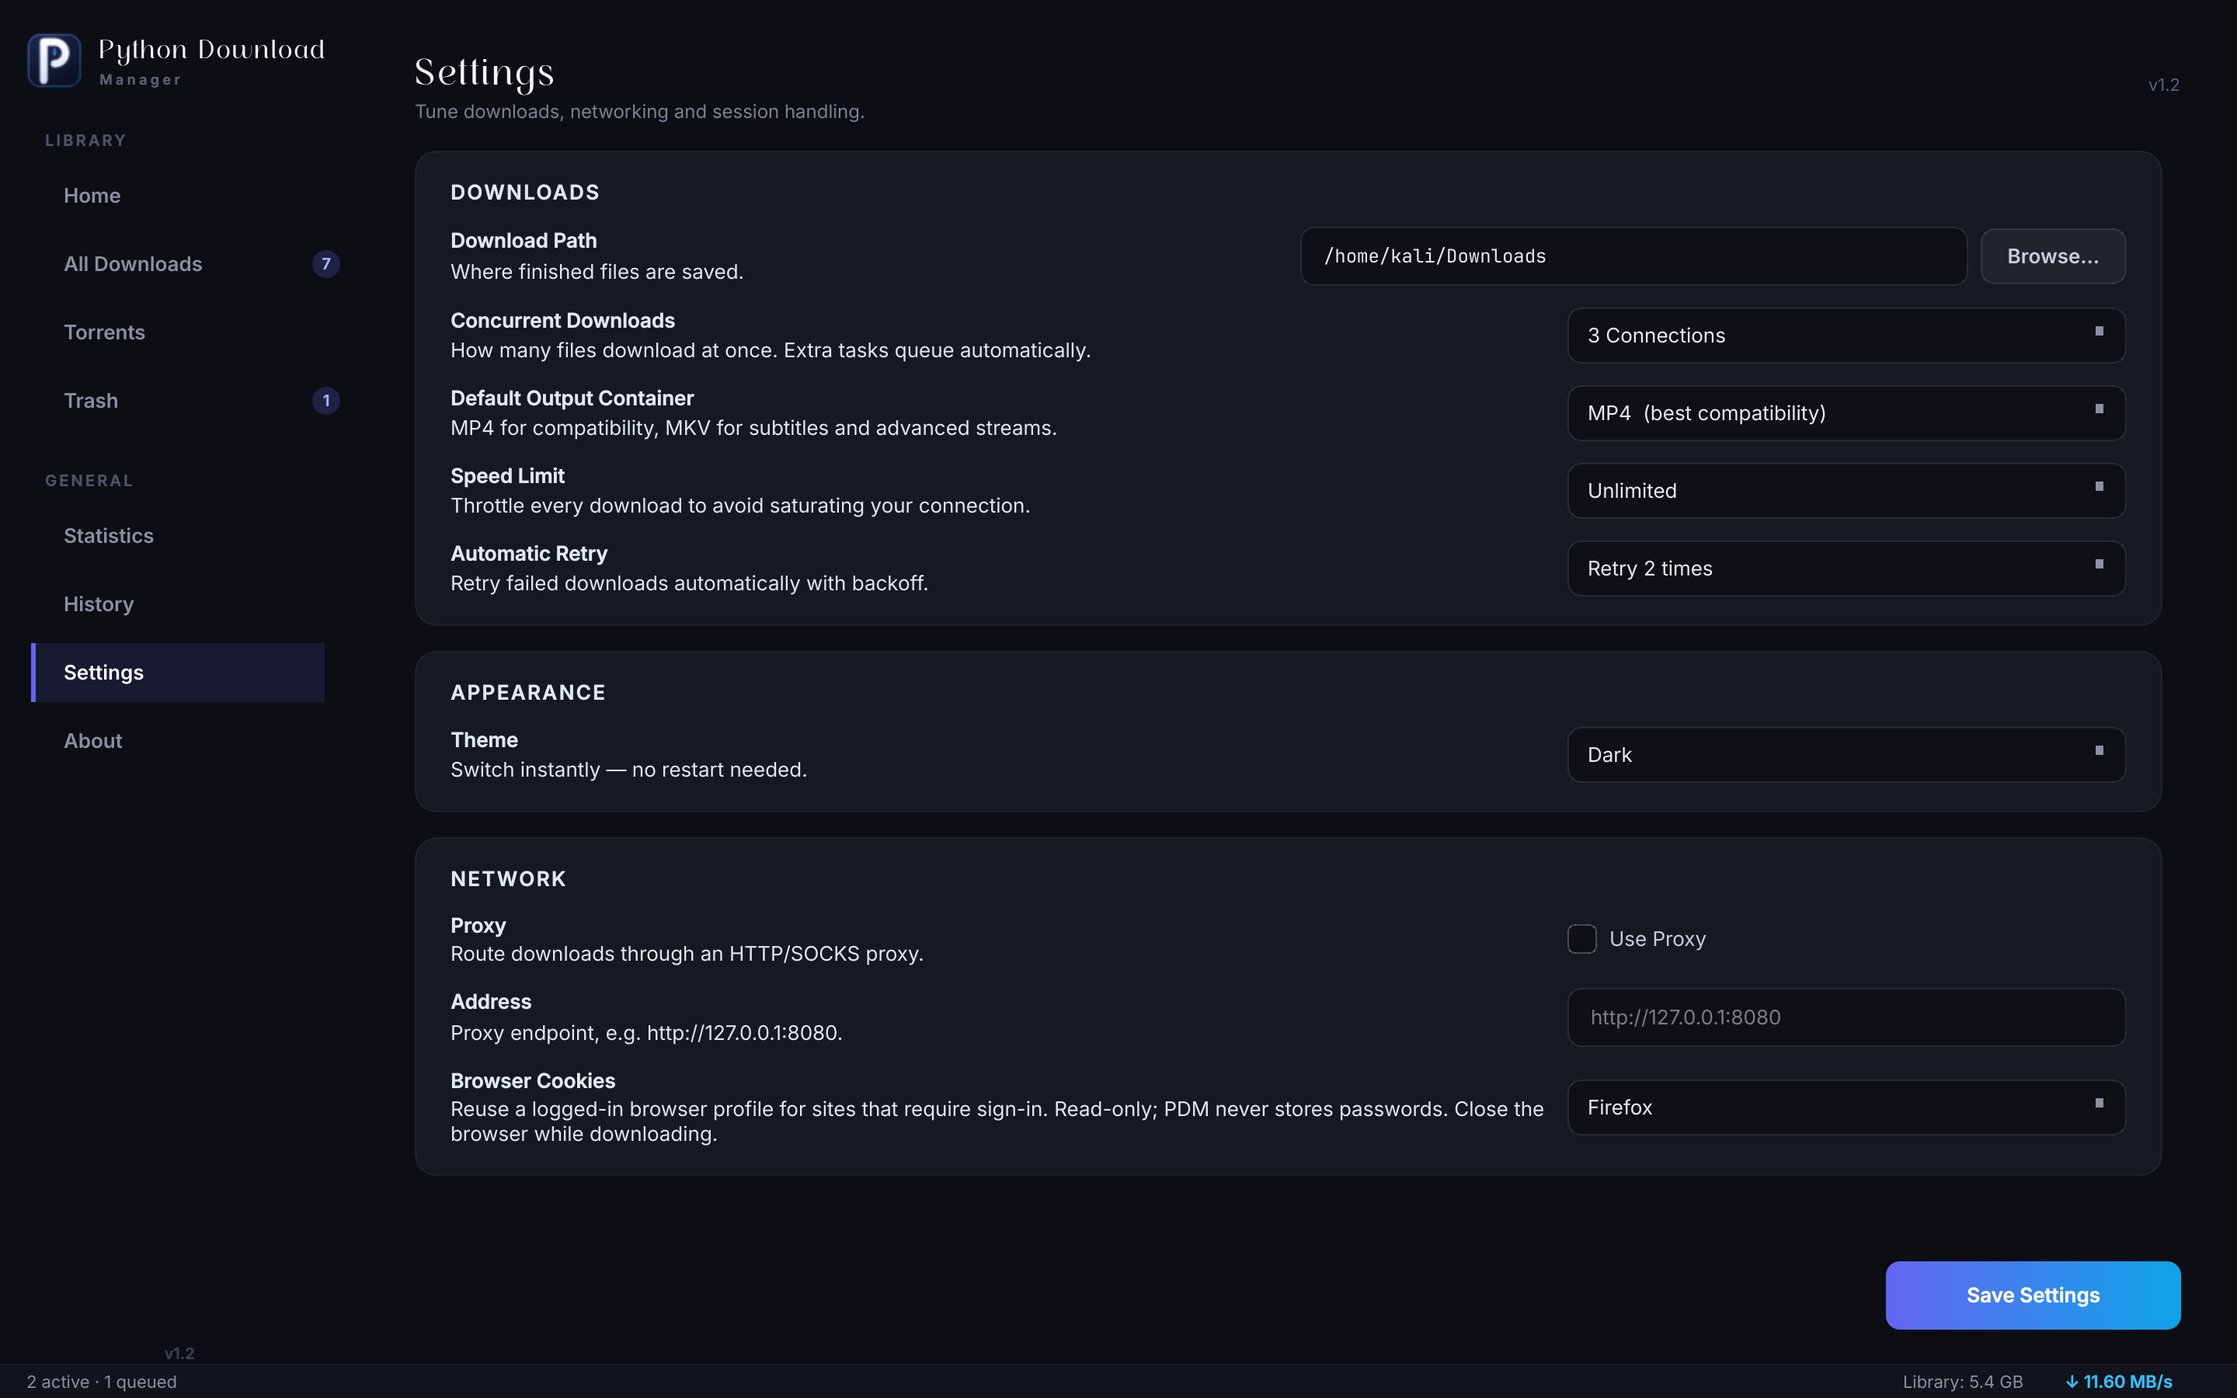
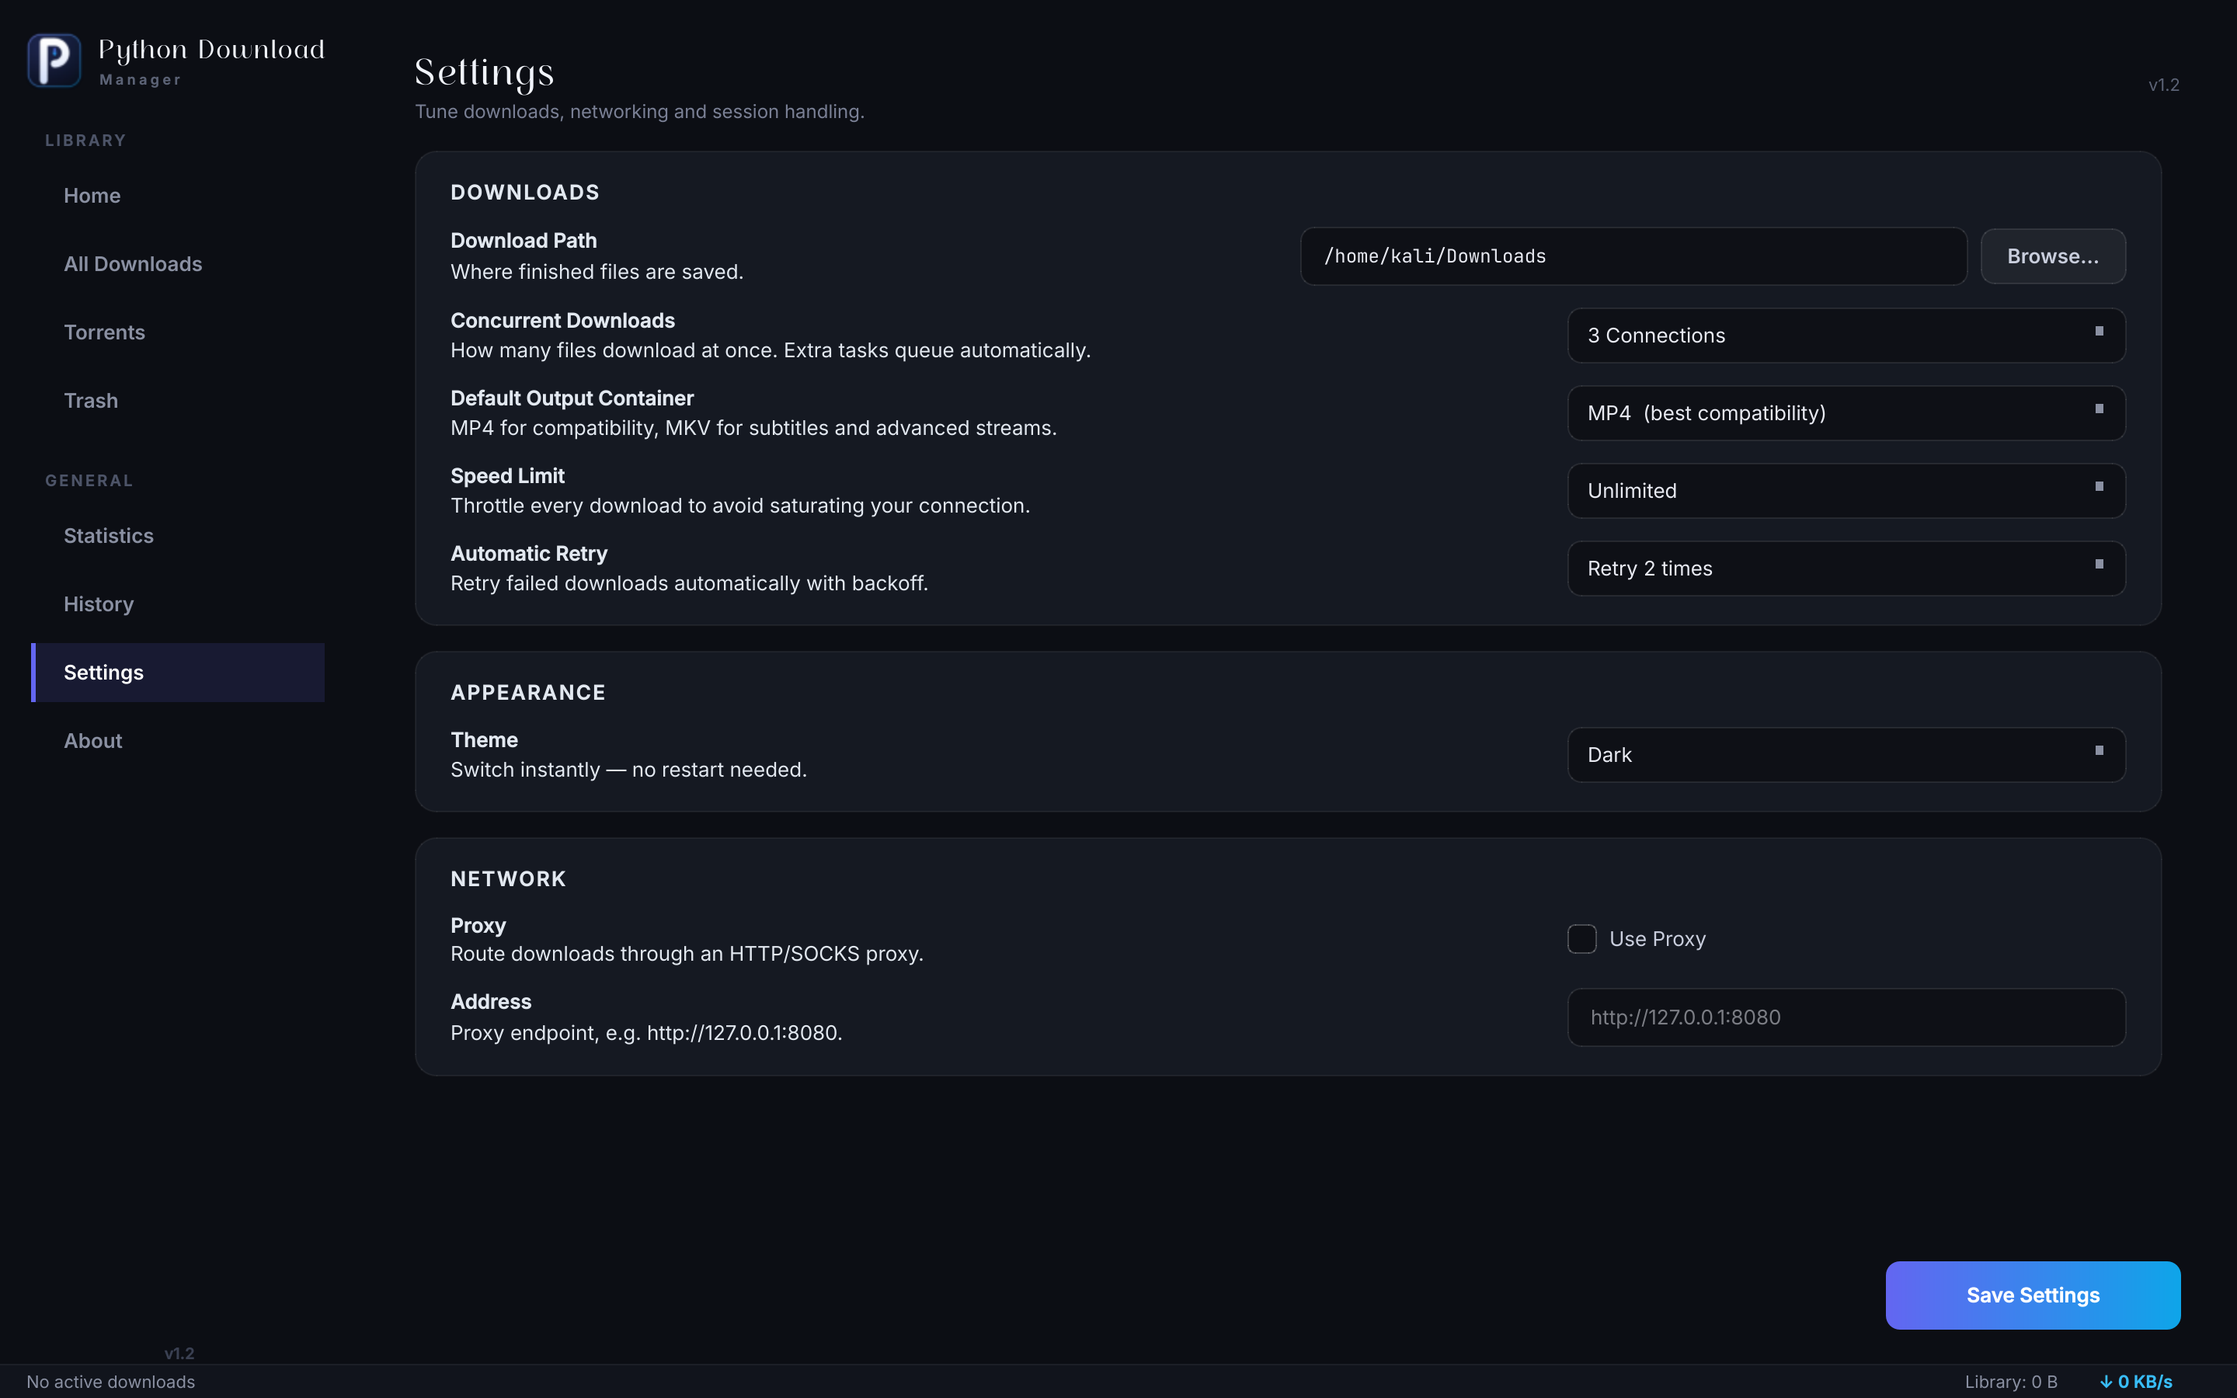
update commit

diff --git a/ui/widgets/settings_view.py b/ui/widgets/settings_view.py
@@ -54,10 +54,6 @@ class PDMSettingsView(QWidget):
             proxy_addr = self.db.get_setting('proxy_address', '')
             self.use_proxy.setChecked(proxy_enabled)
             self.proxy_addr.setText(proxy_addr)
-            cookie_browser = (self.db.get_setting('cookie_browser', '') or '').strip().lower()
-            c_idx = self.cookie_combo.findData(cookie_browser)
-            if c_idx >= 0:
-                self.cookie_combo.setCurrentIndex(c_idx)
         except Exception:
             pass
 
@@ -128,10 +124,7 @@ class PDMSettingsView(QWidget):
         self.use_proxy = QCheckBox('Use Proxy')
         self.proxy_addr = QLineEdit()
         self.proxy_addr.setPlaceholderText('http://127.0.0.1:8080')
-        self.cookie_combo = QComboBox()
-        for lbl, val in [('Disabled', ''), ('Firefox', 'firefox'), ('Chrome', 'chrome'), ('Chromium', 'chromium'), ('Brave', 'brave'), ('Edge', 'edge'), ('Opera', 'opera'), ('Vivaldi', 'vivaldi')]:
-            self.cookie_combo.addItem(lbl, val)
-        container_layout.addWidget(self._create_section('Network', [('Proxy', self.use_proxy, 'Route downloads through an HTTP/SOCKS proxy.'), ('Address', self.proxy_addr, 'Proxy endpoint, e.g. http://127.0.0.1:8080.'), ('Browser Cookies', self.cookie_combo, 'Reuse a logged-in browser profile for sites that require sign-in. Read-only; PDM never stores passwords. Close the browser while downloading.')] ))
+        container_layout.addWidget(self._create_section('Network', [('Proxy', self.use_proxy, 'Route downloads through an HTTP/SOCKS proxy.'), ('Address', self.proxy_addr, 'Proxy endpoint, e.g. http://127.0.0.1:8080.')] ))
         container_layout.addStretch()
         scroll.setWidget(container)
         outer.addWidget(scroll, stretch=1)
@@ -179,7 +172,7 @@ class PDMSettingsView(QWidget):
     def _on_save(self):
         self.save_btn.setEnabled(False)
         self.save_btn.setText('Saving…')
-        data = {'path': self.download_path.text(), 'threads': self.concurrent_limit.currentText(), 'proxy': self.use_proxy.isChecked(), 'proxy_addr': self.proxy_addr.text(), 'theme': self.theme_combo.currentData(), 'container': self.container_combo.currentData(), 'speed_limit': self.speed_limit.currentData(), 'auto_retry': self.retry_combo.currentData(), 'cookie_browser': self.cookie_combo.currentData() or ''}
+        data = {'path': self.download_path.text(), 'threads': self.concurrent_limit.currentText(), 'proxy': self.use_proxy.isChecked(), 'proxy_addr': self.proxy_addr.text(), 'theme': self.theme_combo.currentData(), 'container': self.container_combo.currentData(), 'speed_limit': self.speed_limit.currentData(), 'auto_retry': self.retry_combo.currentData(), 'cookie_browser': ''}
         self.save_clicked.emit(data)
         QTimer.singleShot(500, self._show_confirmation)
 

diff --git a/ui/dialogs.py b/ui/dialogs.py
@@ -117,12 +117,7 @@ class NewDownloadDialog(QDialog):
         signin_lbl = QLabel('SITE SIGN-IN')
         signin_lbl.setObjectName('section-title')
         config_v.addWidget(signin_lbl)
-        self.cookie_combo = QComboBox()
-        for lbl, val in [('Not required', ''), ('Firefox', 'firefox'), ('Chrome', 'chrome'), ('Chromium', 'chromium'), ('Brave', 'brave'), ('Edge', 'edge'), ('Opera', 'opera'), ('Vivaldi', 'vivaldi')]:
-            self.cookie_combo.addItem(lbl, val)
-        self.cookie_combo.setToolTip('Site needs login? Pick the browser where you are logged in, then press Scan Media again. Close that browser first.')
-        config_v.addWidget(self.cookie_combo)
-        hint = QLabel('Login-required site? Choose your browser and re-scan. Close the browser while downloading.')
+        hint = QLabel('Login-required site? Press Scan Media - if sign-in is needed, PDM opens the site right here so you can log in once. The session is remembered.')
         hint.setObjectName('section-sub')
         hint.setWordWrap(True)
         config_v.addWidget(hint)
@@ -145,10 +140,7 @@ class NewDownloadDialog(QDialog):
         footer.addWidget(self.ok_btn)
         outer.addLayout(footer)
         try:
-            saved = PDMDatabase().get_setting('cookie_browser', '') or ''
-            c_idx = self.cookie_combo.findData(saved.lower())
-            if c_idx >= 0:
-                self.cookie_combo.setCurrentIndex(c_idx)
+            PDMDatabase().get_setting('cookie_browser', '')
         except Exception:
             pass
 
@@ -157,10 +149,6 @@ class NewDownloadDialog(QDialog):
         if not url:
             QMessageBox.information(self, 'URL Required', 'Paste a media URL to scan first.')
             return
-        try:
-            PDMDatabase().set_setting('cookie_browser', self.cookie_combo.currentData() or '')
-        except Exception:
-            pass
         low = url.lower()
         if low.startswith('magnet:') or low.endswith('.torrent'):
             if low.startswith('magnet:') and 'dn=' in low:

diff --git a/scripts/selftest.py b/scripts/selftest.py
@@ -223,18 +223,18 @@ def _():
     assert hasattr(w, 'clear_all_btn') and hasattr(w, 'empty_trash_btn')
 
 
-@check('ui: settings roundtrip incl cookies + browse btn')
+@check('ui: settings roundtrip incl browse btn')
 def _():
     from PySide6.QtWidgets import QApplication, QPushButton
     from ui.widgets.settings_view import PDMSettingsView
     sv = PDMSettingsView()
     assert any('Browse' in b.text() for b in sv.findChildren(QPushButton))
-    assert sv.cookie_combo.count() >= 7
+    assert not hasattr(sv, 'cookie_combo'), 'external-browser cookie dropdown should be gone (embedded login is the path)'
     data_probe = sv.download_path.text()
     assert data_probe and not data_probe.startswith('~')
 
 
-@check('ui: dialog magnet routing + signin combo')
+@check('ui: dialog magnet routing + embedded sign-in hint')
 def _():
     from PySide6.QtWidgets import QApplication
     from ui.dialogs import NewDownloadDialog
@@ -243,7 +243,7 @@ def _():
     d._start_scan()
     sel = d.get_selected_files()['files'][0]
     assert sel.get('is_torrent') and 'Mutiny' in sel['name']
-    assert d.cookie_combo.count() >= 7
+    assert not hasattr(d, 'cookie_combo'), 'external-browser cookie dropdown should be gone'
 
 
 @check('themes: dark + light apply cleanly')

diff --git a/README.md b/README.md
@@ -11,9 +11,8 @@ PDM picks the right engine automatically and gets out of your way.
 [![Qt](https://img.shields.io/badge/Qt-6%20%2F%20PySide6-41CD52?style=flat-square&logo=qt&logoColor=white)](https://doc.qt.io/qtforpython/)
 [![Platform](https://img.shields.io/badge/Platform-Linux%20%7C%20Windows-4c5670?style=flat-square)](#-installation)
 [![License](https://img.shields.io/badge/License-MIT-3b82f6?style=flat-square)](LICENSE)
-[![Tests](https://img.shields.io/badge/Self--test-20%20checks-success?style=flat-square)](#-development--testing)
 
-[Features](#-features) · [Installation](#-installation) · [Architecture](#-architecture) · [Contributing](#-contributing) · [Legal](#-legal-notice)
+[Features](#-features) · [Installation](#-installation) · [Usage](#-usage) · [Contributing](#-contributing) · [Legal](#-legal-notice)
 
 </div>
 
@@ -24,14 +23,15 @@ PDM picks the right engine automatically and gets out of your way.
 Most download tools do one thing. PDM routes **every** link you throw at it through the engine
 that handles it best — automatically:
 
-| You paste… | PDM uses |
+| You paste… | What happens |
 |---|---|
-| YouTube / social video links | **yt-dlp** with format picker, cookies and smart naming |
-| `magnet:` or `.torrent` | **libtorrent** engine with live piece progress |
-| HLS / DASH stream pages (`.m3u8` / `.mpd`) | **N_m3u8DL-RE** (auto-installed) with native HLS fallback |
+| Video / social media links | Scanned, formats listed, best quality picked — with a visual format picker |
+| `magnet:` or `.torrent` | Multi-peer torrent engine with live piece progress |
+| Stream pages (`.m3u8` / `.mpd`) | Stream harvesting + a dedicated segmented-stream downloader |
 | Plain file URLs | Multi-segment accelerator with resume + integrity checks |
+| Sign-in-only sites | The site opens inside PDM — log in once, the session is remembered |
 
-No per-site configuration. No browser extensions. One queue, one library.
+No per-site configuration. One queue, one library.
 
 ## ✨ Features
 
@@ -41,15 +41,15 @@ No per-site configuration. No browser extensions. One queue, one library.
 - **Trash-soft delete** — nothing disappears until you empty it
 
 ### 🎬 Smart Media Handling
-- **yt-dlp integration** with a visual format picker (resolution × fps × codec × size)
+- **Visual format picker** — resolution × fps × codec × size, all in one table
 - **Smart naming** — resolution, codec and source baked into clean filenames
-- **Browser login reuse** — opt-in cookies from Firefox/Chrome/Chromium/Brave/Edge/Safari for members-only content you can access
 - **Audio extraction** to MP3 with one toggle
 
-### 📡 OTT / Live Streams
-- **SuperScan** page harvester finds `.m3u8` / `.mpd` / `.mp4` payloads hidden in HTML, JSON blobs and app bundles
-- **N_m3u8DL-RE** pipeline for segmented streams with referer/UA passthrough — installed automatically by the bootstrap scripts
-- **Native HLS downloader** as a dependency-free fallback (no ffmpeg required for TS capture)
+### 📡 Streams & OTT
+- **Stream harvesting** — PDM finds playable `.m3u8` / `.mpd` / `.mp4` payloads hidden in pages, JSON blobs and app bundles
+- **Dedicated segmented-stream downloader** with referer/session passthrough, installed automatically by the bootstrap scripts
+- **Built-in site login** — sign-in-required sites open inside PDM's own browser; log in once and the session is remembered for scanning and downloading
+- **Play-and-catch** — while signed in, any non-encrypted stream the site's player generates appears in a one-click list
 - Login-wall and DRM detection with clear messaging — PDM tells you *why* something can't be fetched instead of failing silently
 
 ### 🌊 BitTorrent
@@ -76,7 +76,7 @@ No per-site configuration. No browser extensions. One queue, one library.
 <td align="center" width="50%"><img src="assets/screenshots/statistics.png" alt="Statistics"/><br/><sub><b>Bandwidth statistics</b></sub></td>
 </tr>
 </table>
-<p><sub><i>More: <a href="assets/screenshots/add_url.png">scan dialog</a> · <a href="assets/screenshots/settings.png">settings (14 themes, cookies, speed limits)</a></i></sub></p>
+<p><sub><i>More: <a href="assets/screenshots/add_url.png">scan dialog</a> · <a href="assets/screenshots/settings.png">settings (14 themes, proxy, speed limits)</a></i></sub></p>
 </div>
 
 ## 🛠 Installation
@@ -90,35 +90,28 @@ cd PDM---Python-Download-Manager
 run.bat           # Windows — double-click or run in cmd
 ```
 
-The bootstrap script creates the virtualenv, installs all dependencies (including PySide6 and a
-static FFmpeg fallback), downloads the **N_m3u8DL-RE** engine for your platform and launches PDM.
-Nothing else to configure.
+The bootstrap script prepares everything automatically and launches PDM. Nothing else to configure.
 
-> `bash run.sh --live` also runs the full network self-test before launching.
-
-### Option 2 — Manual
+### Option 2 — Just run it
 
 ```bash
 git clone https://github.com/pintukumar-sutradhar/PDM---Python-Download-Manager.git
 cd PDM---Python-Download-Manager
-python3 -m venv .venv
-source .venv/bin/activate        # Windows: .venv\Scripts\activate
-pip install -r requirements.txt
 python3 pdm.py
 ```
 
-**Requirements:** Python 3.10+. Everything else installs itself on first run.
+On first launch PDM installs its own dependencies automatically (creating a local environment if
+your system Python requires one) and then starts. Subsequent launches open instantly.
 
-- FFmpeg optional (`static-ffmpeg` bundled as fallback)
-- Node.js/deno optional (improves some YouTube extractions)
-- BitTorrent uses `libtorrent`, installed automatically when a wheel exists for your Python; on very new Python versions without a wheel, everything else still works and only torrent support is disabled
+**Requirements:** Python 3.10+. Everything else installs itself on first run.
 
 ## 🚀 Usage
 
-1. **Paste anything** — a YouTube link, a magnet, a stream page URL, a direct file
+1. **Paste anything** — a video link, a magnet, a stream page URL, a direct file
 2. PDM scans it and shows exactly what it found (formats, streams, files)
-3. Pick where to save; hit download
-4. Watch progress in the library, or minimize to tray
+3. If a site needs sign-in, log in inside PDM's built-in browser — once
+4. Pick where to save; hit download
+5. Watch progress in the library, or minimize to tray
 
 <details>
 <summary><b>⌨ Keyboard shortcuts</b></summary>
@@ -131,62 +124,9 @@ python3 pdm.py
 
 </details>
 
-## 🏗 Architecture
-
-```
-pdm.py                  app entry, splash, single-instance guard
-├── ui/                 Qt widgets, views, themes, dialogs
-│   ├── main_window.py  navigation, library, torrent↔library sync
-│   └── widgets/        home dashboard, settings, statistics cards
-├── core/
-│   ├── download_engine.py   queue, worker lifecycle, signals
-│   ├── scanner.py           URL classification (yt-dlp → SuperScan fallback)
-│   ├── ott_superscan.py     page harvester for hidden stream manifests
-│   ├── nre.py               N_m3u8DL-RE process control + progress parsing
-│   ├── database.py          SQLite (WAL) schema + retry-safe writes
-│   └── jsruntime.py         JS runtime detection, cookie plumbing
-├── download/
-│   ├── worker.py            routing: NRE → native HLS → direct → engine
-│   ├── native_engine.py     dependency-free HLS downloader
-│   ├── torrent_engine.py    libtorrent wrapper
-│   └── segment.py           multi-segment byte-range downloader
-└── scripts/selftest.py      20-check verification suite (offline + live)
-```
-
-## 🧪 Development & Testing
-
-```bash
-python3 scripts/selftest.py          # 17 offline checks
-python3 scripts/selftest.py --live   # + 3 live network tests (YouTube, HLS, full download)
-
-PDM_VERBOSE=1 python3 pdm.py         # verbose console during development
-```
-
-Every module is covered by the self-test: database lifecycle, scanner ordering guarantees,
-SuperScan harvesting, NRE command building, worker routing, UI boot, themes and more.
-
-## 🗺 Roadmap
-
-- [ ] Per-site OTT tuning as data-driven rules
-- [ ] Scheduler (start/stop windows, off-peak throttling)
-- [ ] Browser extension for one-click hand-off
-- [ ] Portable Windows build
-
 ## 🤝 Contributing
 
-PRs welcome. Keep the self-test green:
-
-```bash
-python3 scripts/selftest.py
-```
-
-Please read [CONTRIBUTING.md](CONTRIBUTING.md) and the [Code of Conduct](CONTRIBUTING.md) first.
-
-## 🔒 Security
-
-Downloaded content is stored unencrypted in your chosen folder. Cookie reuse is **opt-in**,
-per-download, and never leaves your machine. Report vulnerabilities via
-[GitHub Issues](https://github.com/pintukumar-sutradhar/PDM---Python-Download-Manager/issues).
+PRs welcome — bug fixes, UI polish, new site support. Please open an issue first for large changes.
 
 ## 📄 License
 
@@ -200,5 +140,5 @@ any site you download from and with your local laws. Download only what you have
 download.
 
 <div align="center">
-<sub>Built with Python, PySide6, yt-dlp, libtorrent and N_m3u8DL-RE.</sub>
+<sub>PDM — Python Download Manager</sub>
 </div>
